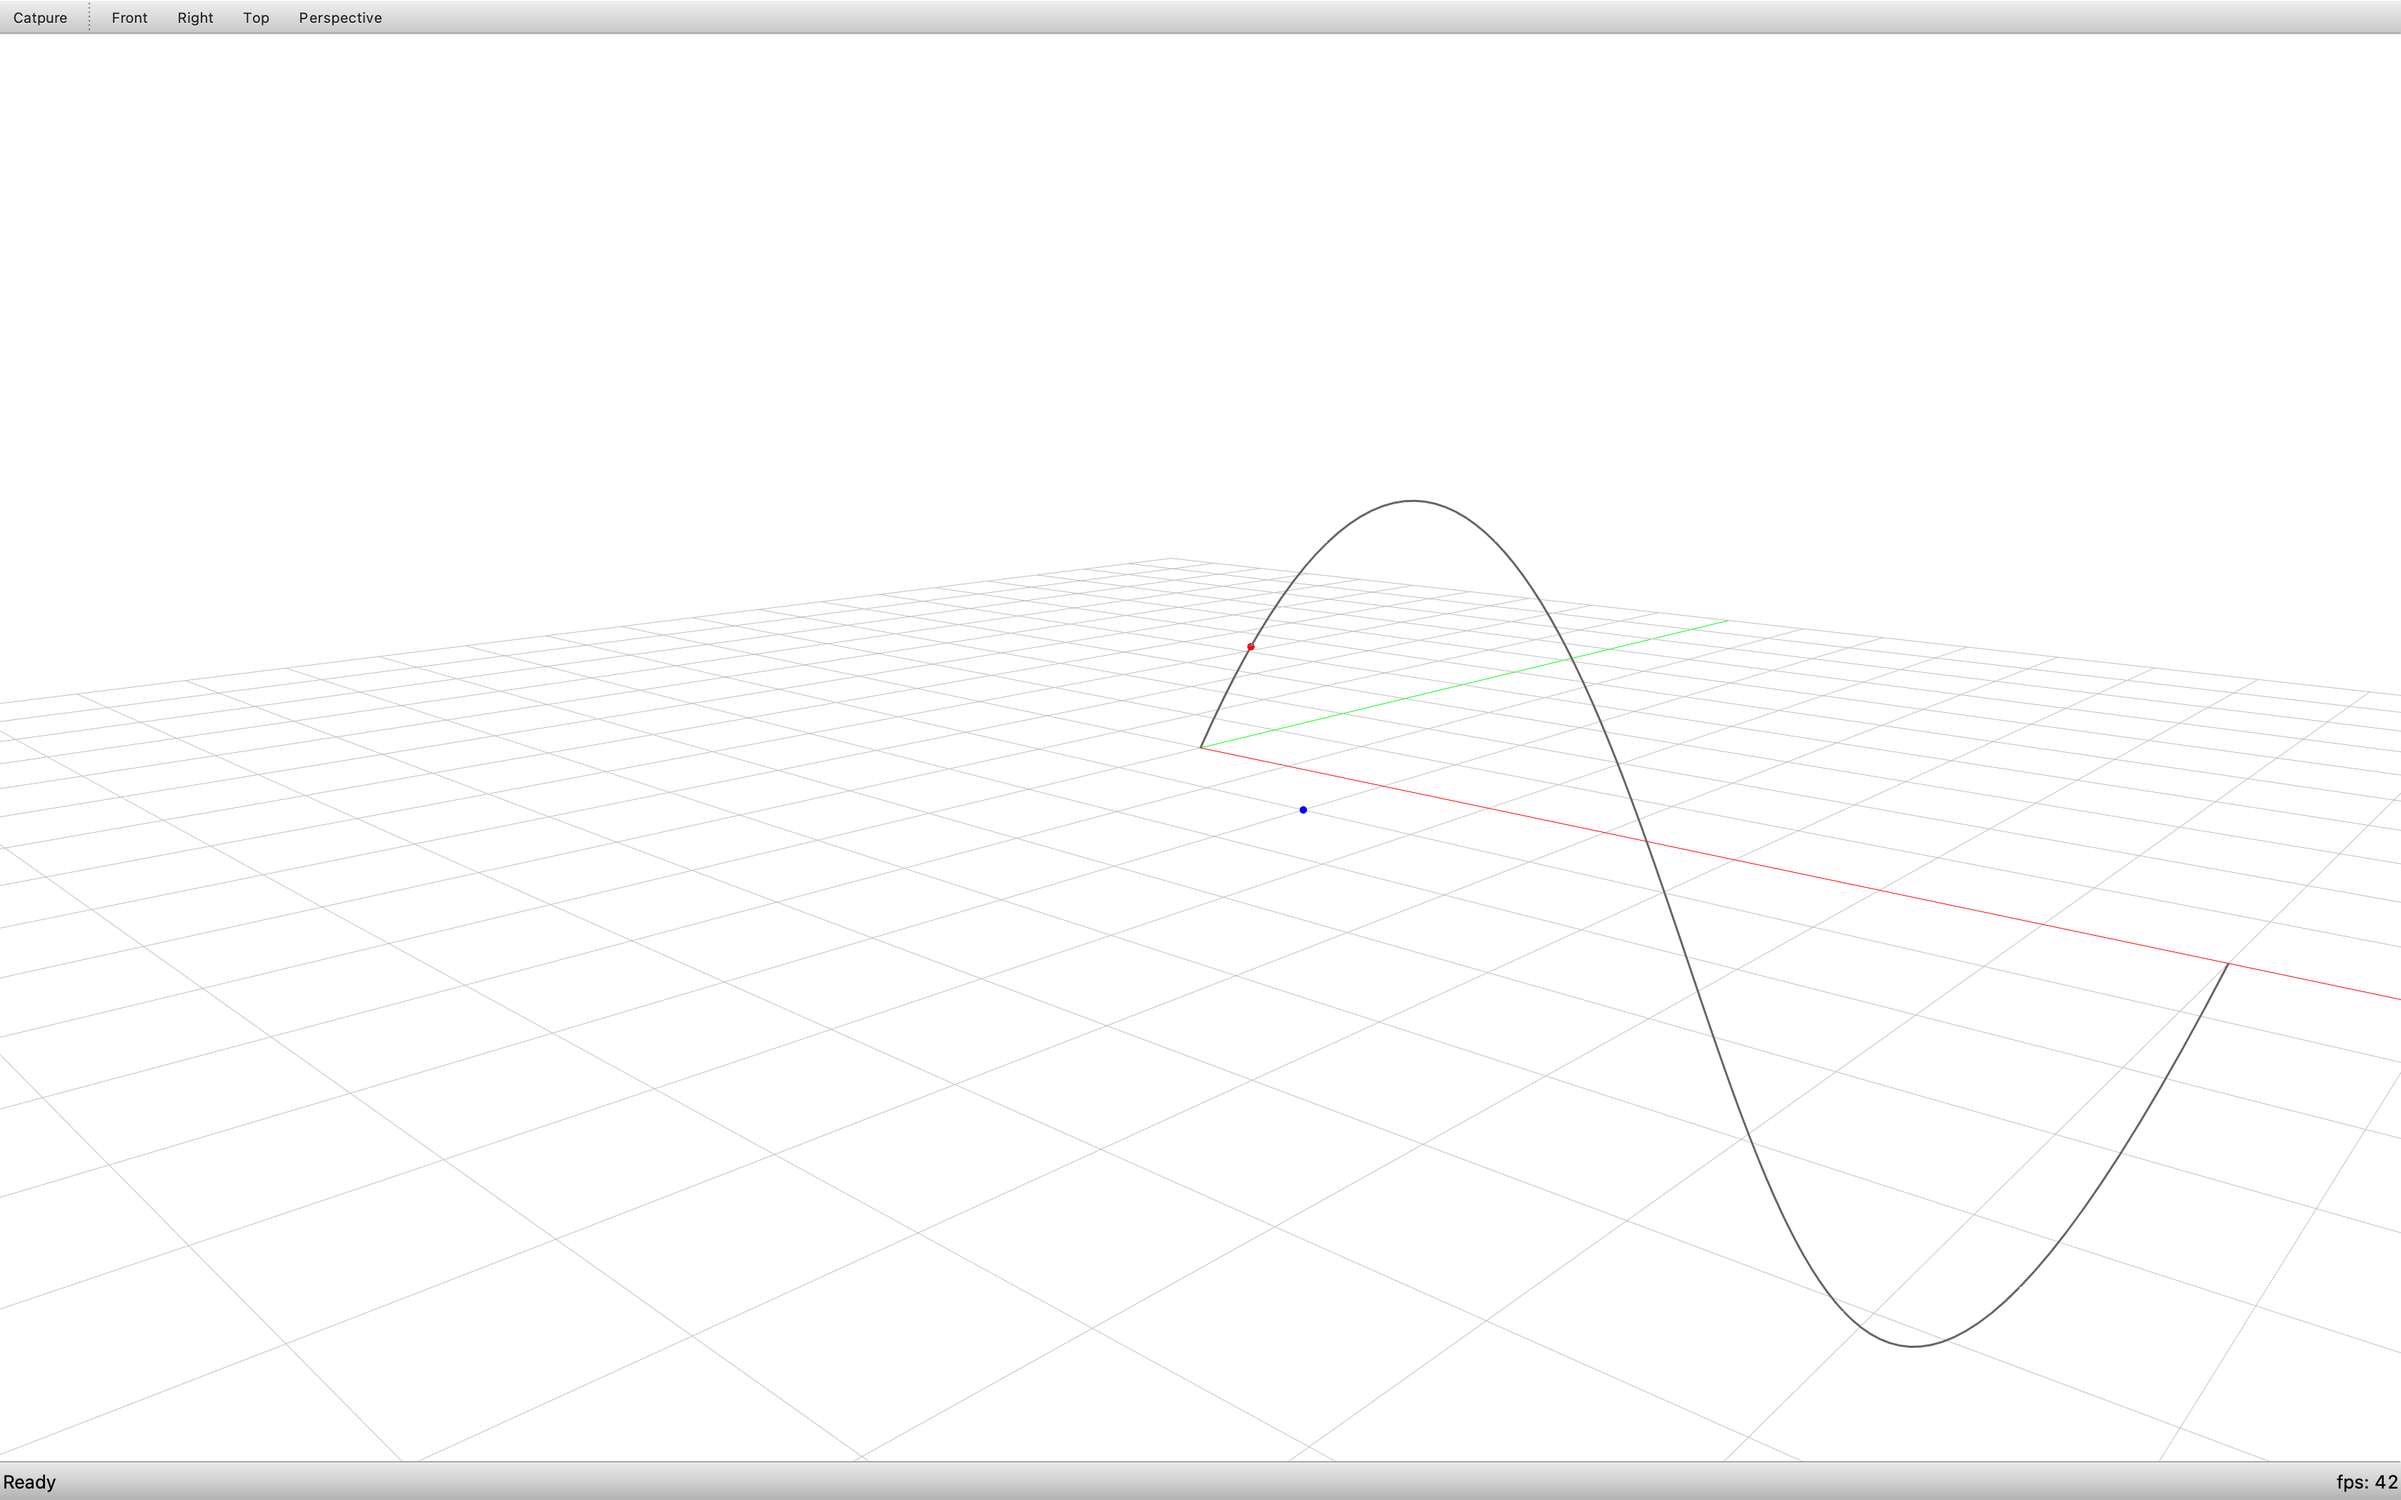
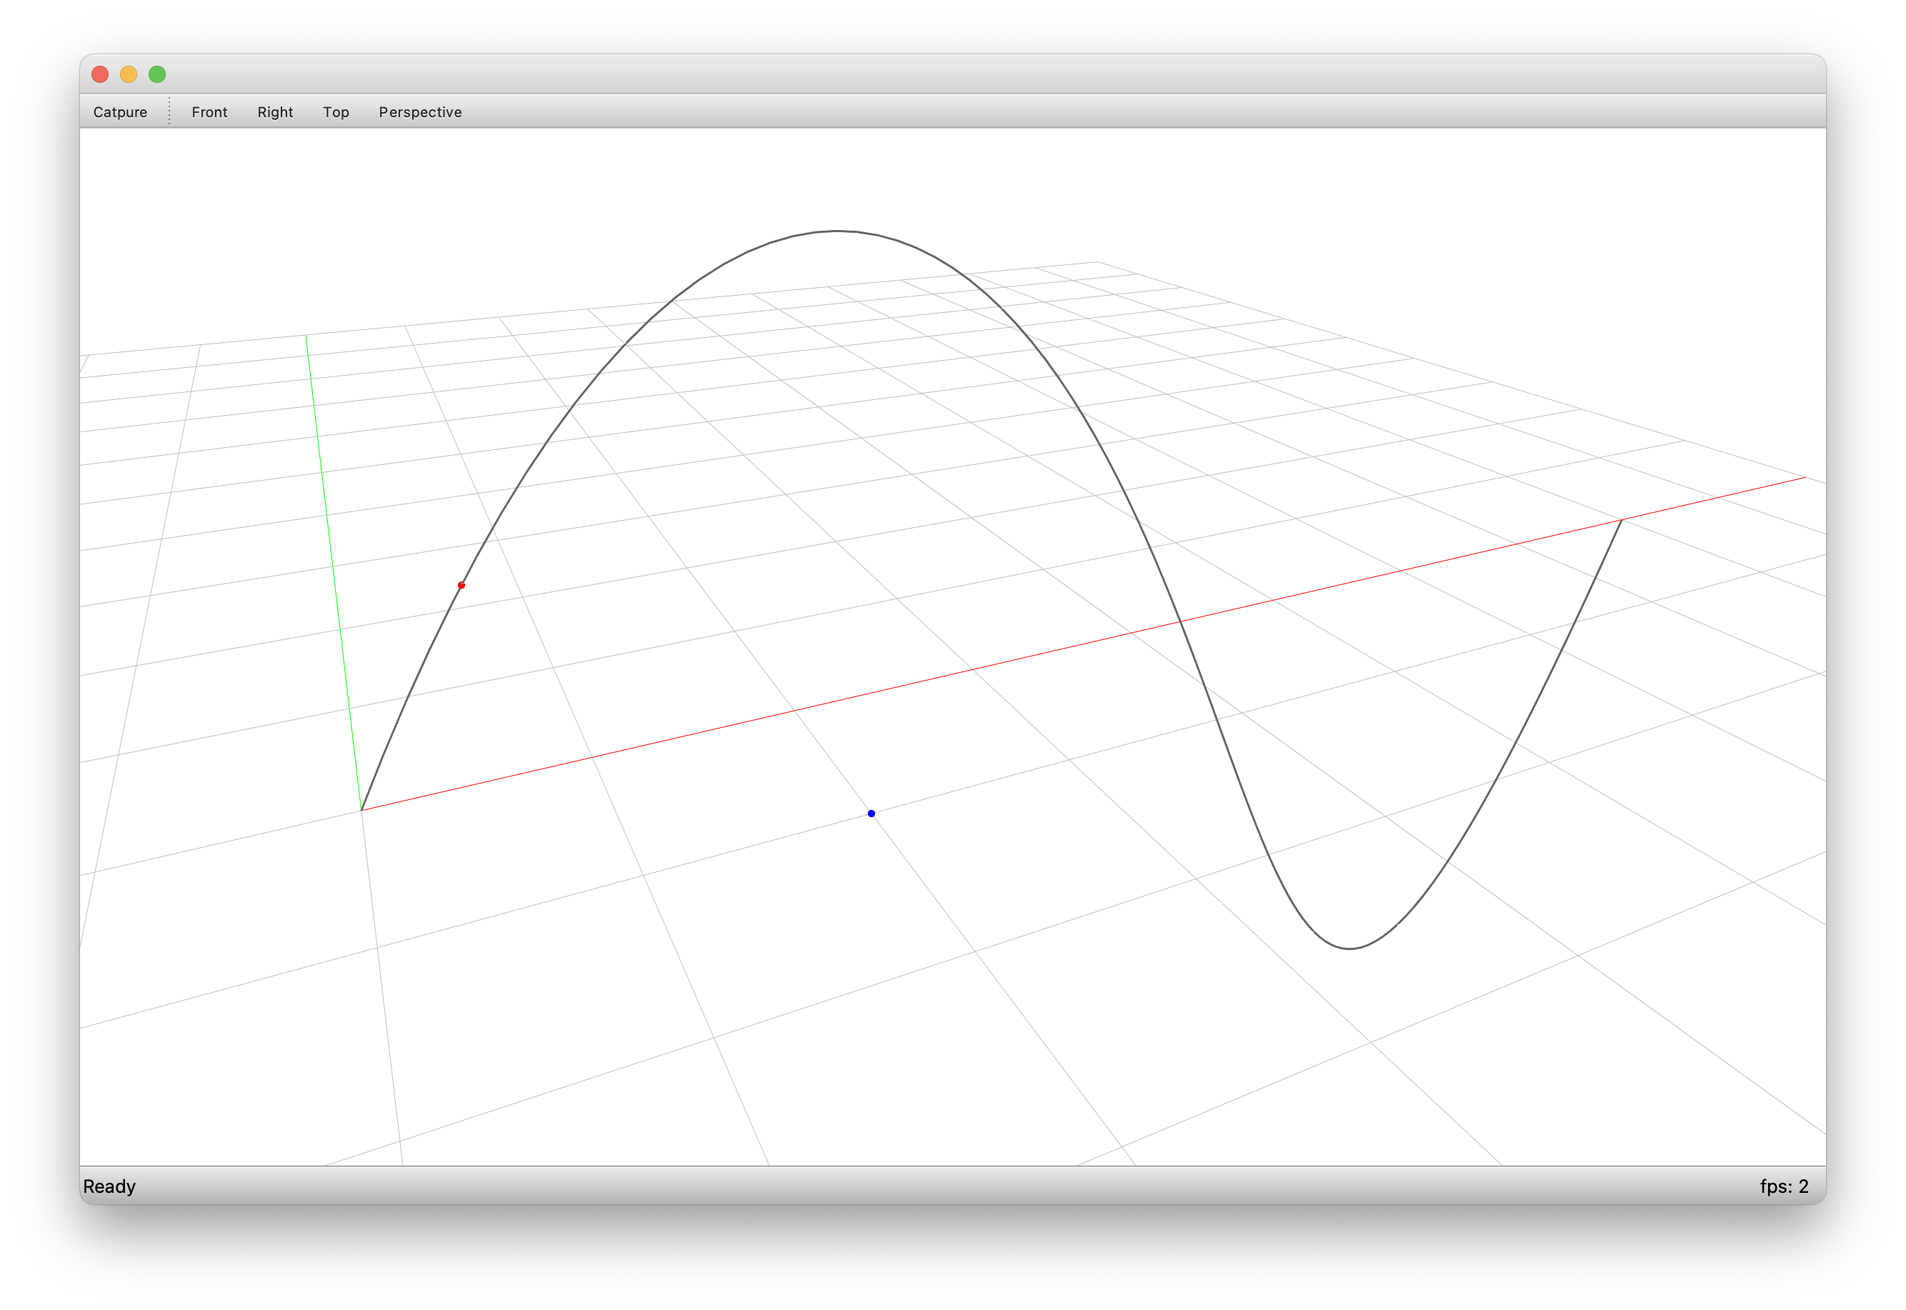
fix lint and docs error, improve example

diff --git a/src/compas_occ/geometry/curves/nurbs.py b/src/compas_occ/geometry/curves/nurbs.py
@@ -671,14 +671,14 @@ class NurbsCurve(Curve):
             u, v = v, u
         s, e = self.domain
         if u < s or v > e:
-            raise ValueError(f'At least one of the given parameters is outside the curve domain.')
+            raise ValueError('At least one of the given parameters is outside the curve domain.')
         if u == v:
-            raise ValueError(f'The given domain is zero length.')
+            raise ValueError('The given domain is zero length.')
         else:
             return self.occ_curve.Segment(u, v, precision)
 
     def segmented(self, u: float, v: float, precision: float = 1e-3) -> 'NurbsCurve':
-        """Return a copy of this curve by segmenting it between the parameters u and v.
+        """Returns a copy of this curve by segmenting it between the parameters u and v.
 
         Parameters
         ----------

diff --git a/docs/examples/curve_segmentation.py b/docs/examples/curve_segmentation.py
@@ -7,13 +7,12 @@ from compas_view2.app import App
 pointsA = [Point(0, 0, 0), Point(3, 6, 0), Point(6, -3, 3), Point(10, 0, 0)]
 curveA = NurbsCurve.from_points(pointsA)
 
-initial_curveA = curveA.copy()
 curveA.segment(u=0.2, v=0.5)
 
 print(curveA.domain)
 
 
-pointsB = [Point(-6, -1, 0), Point(-3, 5, 0), Point(-0, -4, 3), Point(4, -1, 0)]
+pointsB = [Point(0, -1, 0), Point(3, 5, 0), Point(6, -4, 3), Point(10, -1, 0)]
 curveB = NurbsCurve.from_points(pointsB)
 
 segment = curveB.segmented(u=0.2, v=0.5)
@@ -27,7 +26,6 @@ print(segment.domain)
 
 view = App()
 
-view.add(Polyline(initial_curveA.locus()), linewidth=1, linecolor=(0.7, 0.7, 0.7))
 view.add(Polyline(curveA.locus()), linewidth=4, linecolor=(1, 0, 0))
 
 view.add(Polyline(curveB.locus()), linewidth=1, linecolor=(0, 0, 0))

diff --git a/docs/examples/curve_segmentation.rst b/docs/examples/curve_segmentation.rst
@@ -6,7 +6,7 @@ Curve Segmentation
     :figclass: figure
     :class: figure-img img-fluid
 
-.. literalinclude:: example_segmentation.py
+.. literalinclude:: curve_segmentation.py
     :language: python
 
 .. code-block:: text
